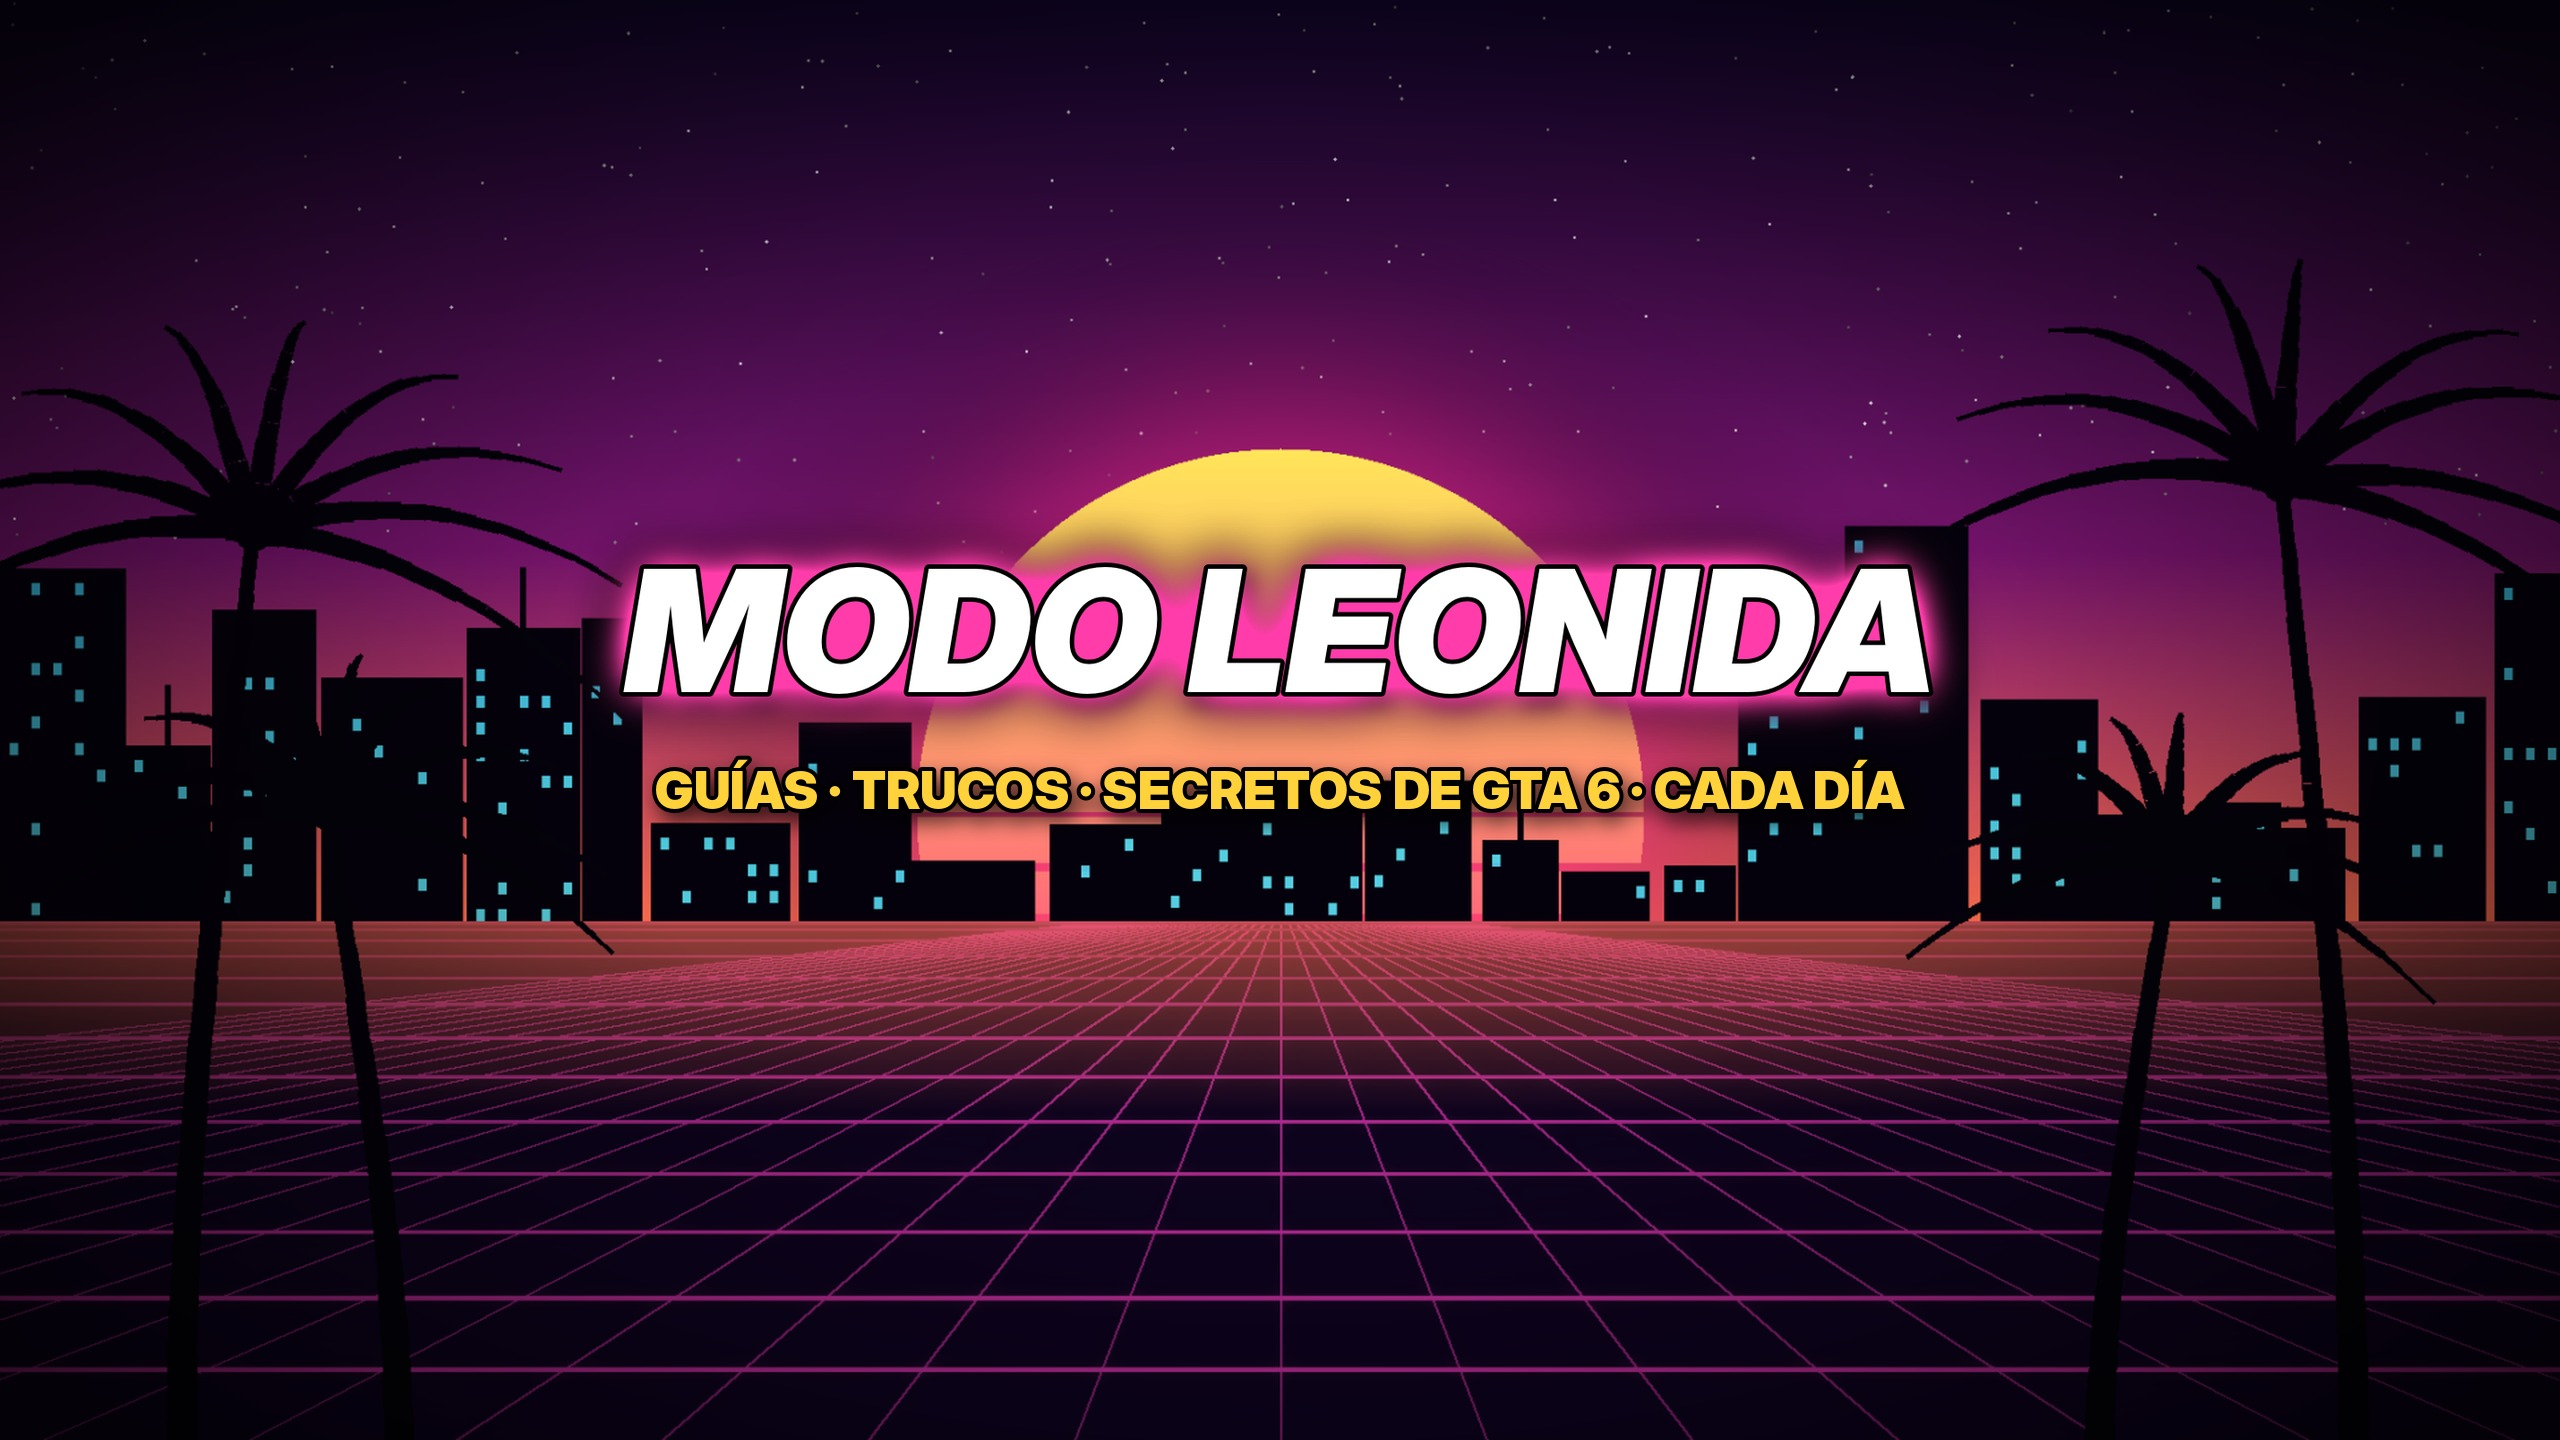
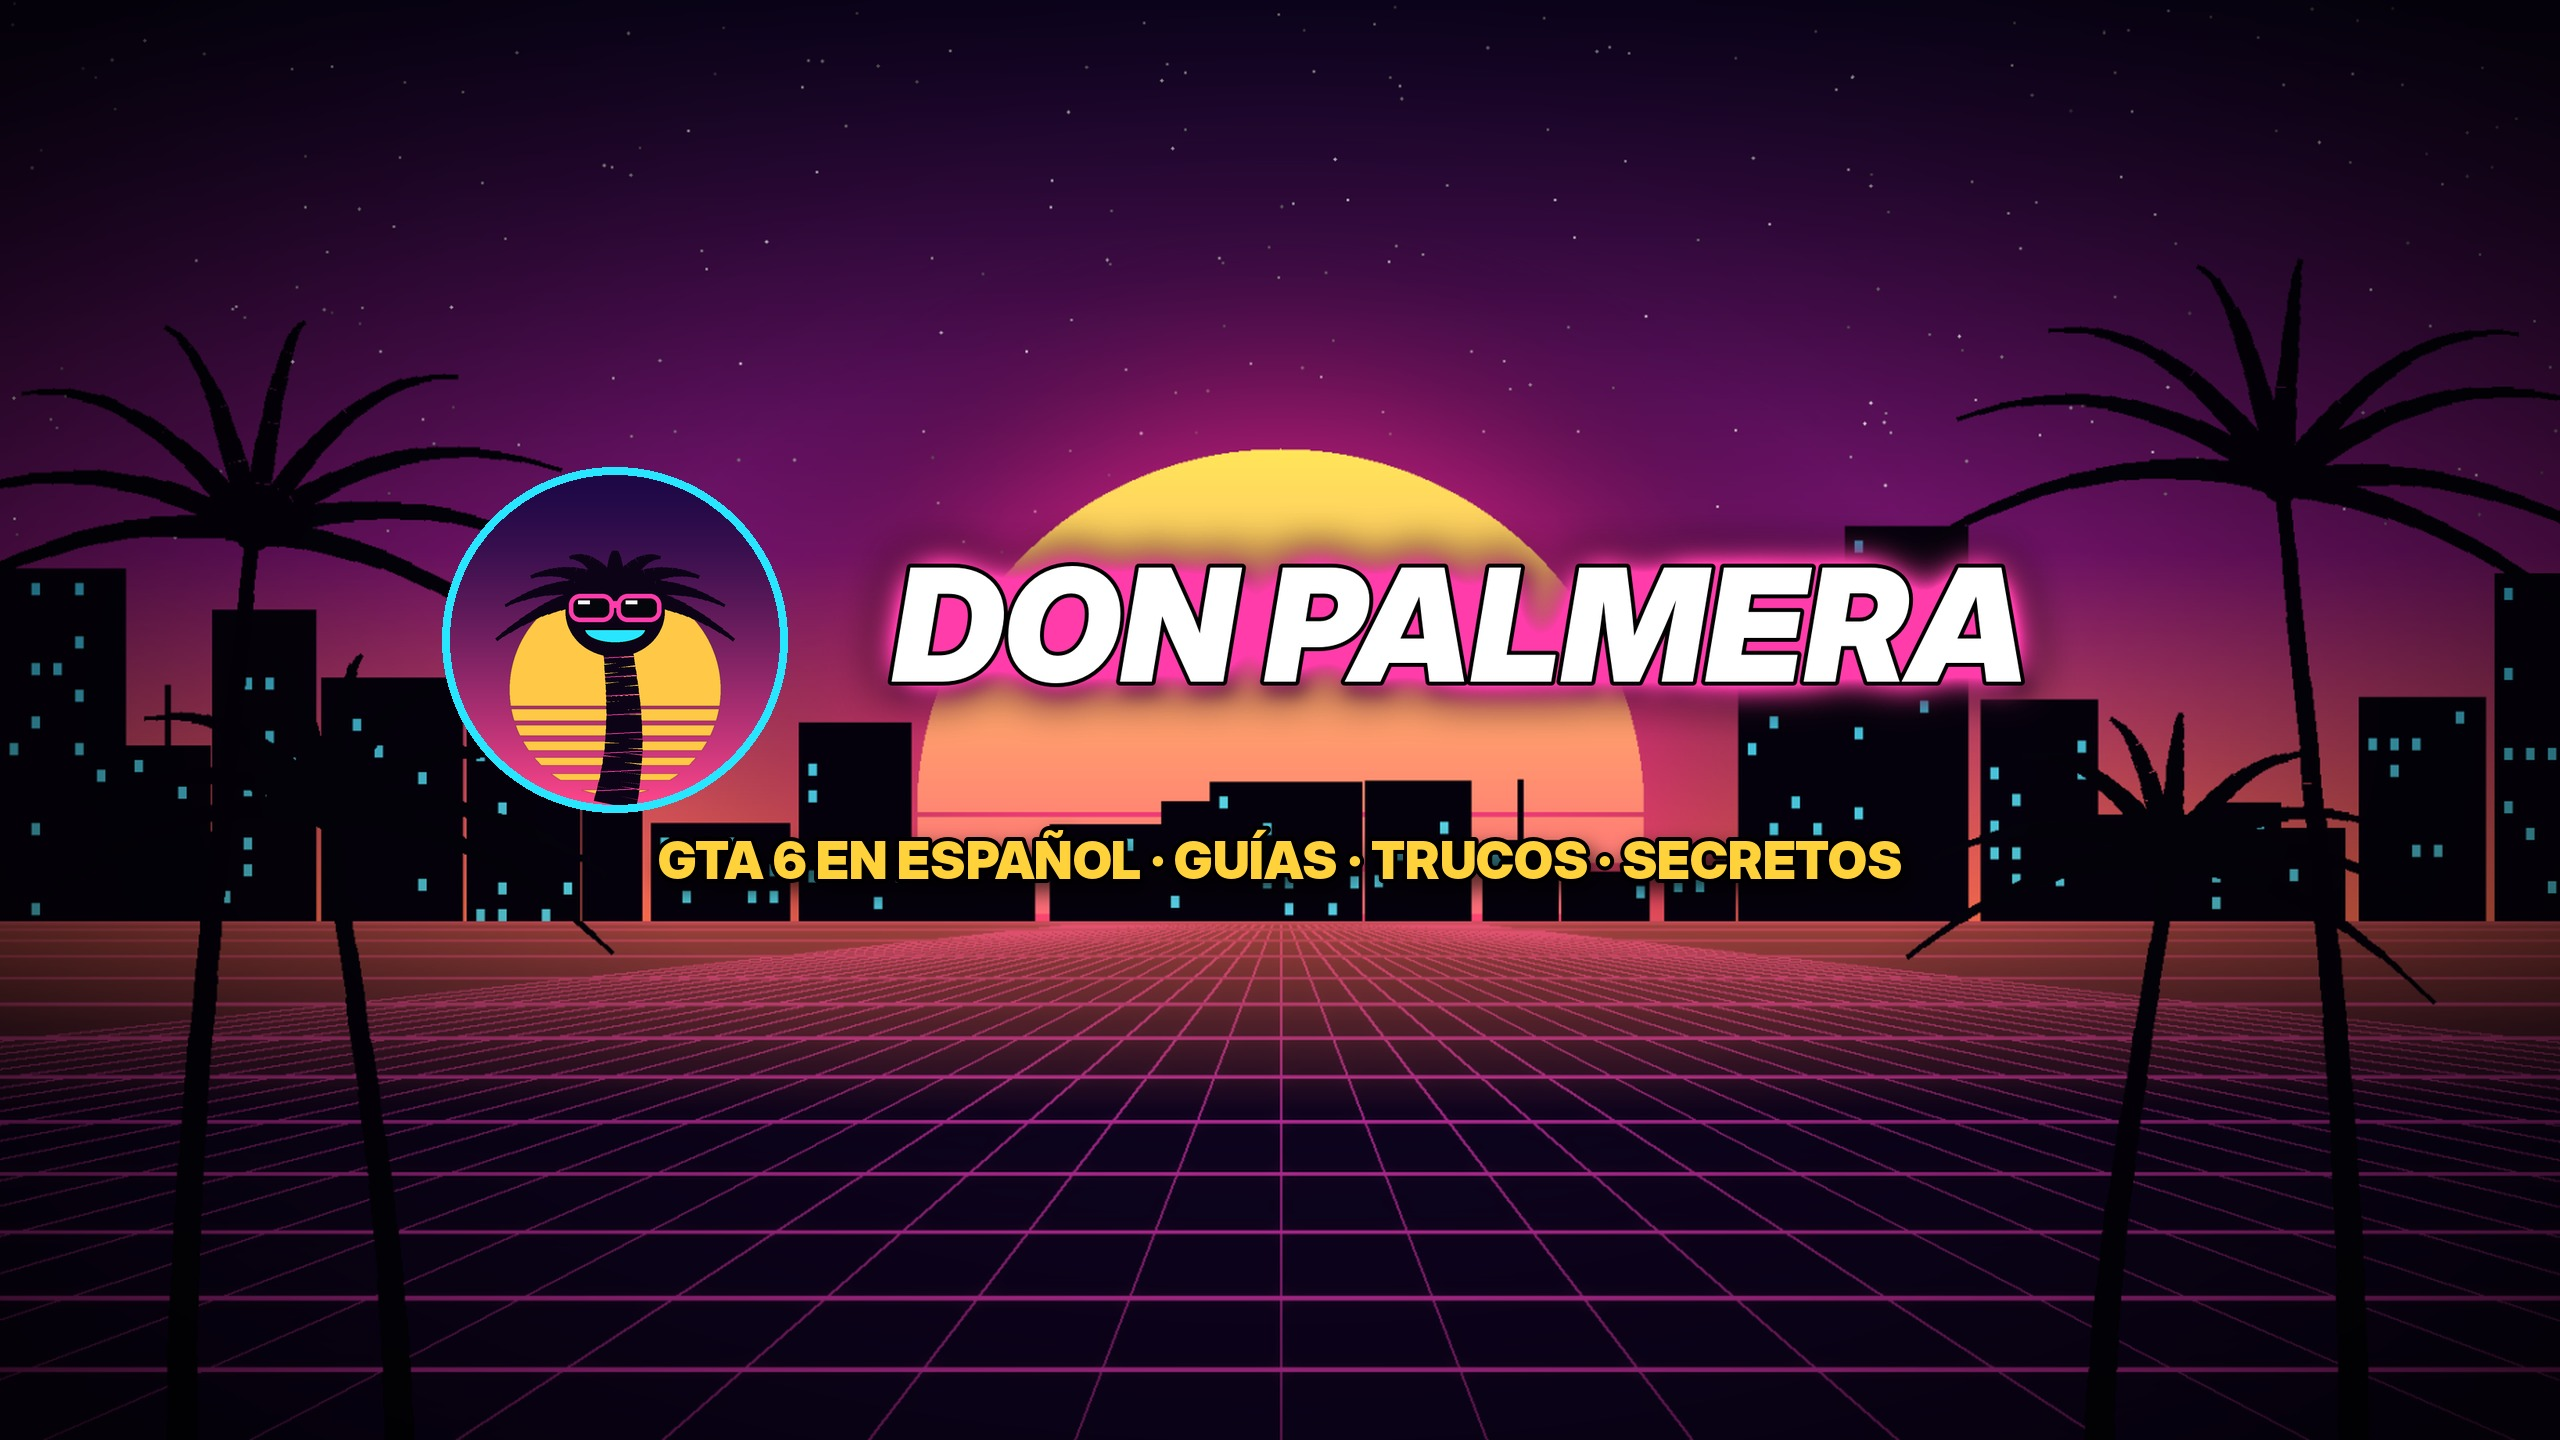
Cambio de marca a DON PALMERA: kit del canal y pipeline
Claude-Session: https://claude.ai/code/session_01UAdY6kd6m1RmKqG4SPs7Dz

Changed region(s): [[0.1562, 0.3125, 0.8125, 0.625]]

diff --git a/pipeline/build.py b/pipeline/build.py
@@ -102,28 +102,76 @@ def thumb(vi):
     print("thumb", out)
 
 # ------------------------------------------------------------------ canal
+def palmera_gafas(size, P):
+    """Mascota: Don Palmera, palmera con cabeza, gafas de sol y bigote."""
+    import math
+    S = 1000
+    im = Image.new("RGBA", (S, S), (20, 6, 48, 255))
+    # cielo degradado + sol
+    arr = np.zeros((S, S, 4), np.uint8); y = np.linspace(0, 1, S)[:, None]
+    top, bot = np.array((30, 8, 70)), np.array((255, 70, 140))
+    for k in range(3): arr[..., k] = (top[k] + (bot[k] - top[k]) * y ** 1.4).astype(np.uint8)
+    arr[..., 3] = 255
+    im = Image.fromarray(arr, "RGBA")
+    sun = Image.new("RGBA", (S, S), (0, 0, 0, 0)); sd = ImageDraw.Draw(sun)
+    sd.ellipse((180, 330, 820, 970), fill=(255, 200, 70, 255))
+    for k in range(6):
+        y0 = 700 + k * 45; sd.rectangle((0, y0, S, y0 + 8 + k * 4), fill=(0, 0, 0, 0))
+    im.alpha_composite(sun.filter(ImageFilter.GaussianBlur(1)))
+    d = ImageDraw.Draw(im)
+    dark = (12, 4, 22, 255)
+    # tronco grueso y curvo
+    pts = [(500 + 60 * math.sin(t * 2.2) * (1 - t), 1000 - 560 * t) for t in np.linspace(0, 1, 40)]
+    for i in range(len(pts) - 1):
+        d.line([pts[i], pts[i + 1]], fill=dark, width=int(130 - 50 * i / 39))
+    for i in range(3, 39, 4):  # anillos del tronco
+        x, yv = pts[i]; w = (130 - 50 * i / 39) / 2
+        d.line([(x - w, yv), (x + w, yv - 6)], fill=P["a1"] + (120,), width=4)
+    hx, hy = 500, 400
+    # hojas
+    for k in range(9):
+        ang = math.radians(-180 + k * 22.5)
+        L = 360
+        poly = []
+        for j in range(20):
+            t = j / 19
+            poly.append((hx + math.cos(ang) * L * t, hy - 40 + math.sin(ang) * L * t * 0.75 + 140 * t * t))
+        for j in range(len(poly) - 1):
+            d.line([poly[j], poly[j + 1]], fill=dark, width=int(70 - 62 * j / 19))
+    # cabeza
+    d.ellipse((hx - 150, hy - 120, hx + 150, hy + 150), fill=dark)
+    # gafas
+    for dx in (-72, 72):
+        d.rounded_rectangle((hx + dx - 68, hy - 40, hx + dx + 68, hy + 45), 34, fill=(5, 5, 12, 255), outline=P["a1"] + (255,), width=14)
+        d.line((hx + dx - 40, hy - 15, hx + dx - 5, hy - 15), fill=(255, 255, 255, 230), width=12)
+    d.rectangle((hx - 10, hy - 18, hx + 10, hy + 2), fill=P["a1"] + (255,))
+    # bigote
+    d.chord((hx - 95, hy + 20, hx + 95, hy + 110), 0, 180, fill=P["a2"] + (255,))
+    d.chord((hx - 95, hy + 20, hx + 95, hy + 110), 0, 180, outline=(0, 0, 0, 255), width=4)
+    return im.resize((size, size), Image.LANCZOS)
+
 def canal():
     d = os.path.join(ROOT, "canal"); os.makedirs(d, exist_ok=True)
     P = R.PALETTES["sunset"]
     bg = R.Background("sunset", 42)
-    # banner 2560x1440 (zona segura central 1546x423)
     im = bg.get(3, 1.0, dim=False).resize((2560, 1440), Image.LANCZOS)
-    t = R.text_img("MODO LEONIDA", R.F_BI, 190, fill=(255, 255, 255), glow=P["a1"], glow_r=30, stroke=5, stroke_fill=(0, 0, 0))
-    if t.width > 1500: t = t.resize((1500, int(t.height * 1500 / t.width)), Image.LANCZOS)
-    im.alpha_composite(t, (1280 - t.width // 2, 640 - t.height // 2 - 10))
-    s = R.text_img("GUÍAS · TRUCOS · SECRETOS DE GTA 6 · CADA DÍA", R.F_BLACK, 52, fill=R.MID, stroke=4, stroke_fill=(0, 0, 0))
-    im.alpha_composite(s, (1280 - s.width // 2, 790 - s.height // 2))
+    t = R.text_img("DON PALMERA", R.F_BI, 200, fill=(255, 255, 255), glow=P["a1"], glow_r=30, stroke=5, stroke_fill=(0, 0, 0))
+    if t.width > 1300: t = t.resize((1300, int(t.height * 1300 / t.width)), Image.LANCZOS)
+    m = palmera_gafas(330, P)
+    mask = Image.new("L", (330, 330), 0); ImageDraw.Draw(mask).ellipse((0, 0, 329, 329), fill=255)
+    tw = 330 + 30 + t.width; x0 = 1280 - tw // 2
+    ring = Image.new("RGBA", (346, 346), (0, 0, 0, 0)); ImageDraw.Draw(ring).ellipse((0, 0, 345, 345), fill=P["a2"] + (255,))
+    im.alpha_composite(ring, (x0 - 8, 640 - 173))
+    im.paste(m, (x0, 640 - 165), mask)
+    im.alpha_composite(t, (x0 + 360, 625 - t.height // 2))
+    s = R.text_img("GTA 6 EN ESPAÑOL · GUÍAS · TRUCOS · SECRETOS", R.F_BLACK, 52, fill=R.MID, stroke=4, stroke_fill=(0, 0, 0))
+    im.alpha_composite(s, (1280 - s.width // 2, 860 - s.height // 2))
     im.convert("RGB").save(os.path.join(d, "banner_2560x1440.jpg"), quality=92)
-    # avatar 800x800
-    av = bg.get(5, 1.6, dim=False).crop((560, 140, 1360, 940)).convert("RGBA")
-    dk = Image.new("RGBA", av.size, (0, 0, 0, 90)); av.alpha_composite(dk)
-    t = R.text_img("ML", R.F_BI, 400, fill=(255, 255, 255), glow=P["a1"], glow_r=30, stroke=8, stroke_fill=(0, 0, 0))
-    av.alpha_composite(t, (400 - t.width // 2, 400 - t.height // 2))
+    av = palmera_gafas(800, P)
     av.convert("RGB").save(os.path.join(d, "avatar_800x800.jpg"), quality=92)
-    # marca de agua 150x150
     wm = Image.new("RGBA", (150, 150), (0, 0, 0, 0)); wd = ImageDraw.Draw(wm)
     wd.ellipse((4, 4, 146, 146), fill=(230, 20, 30, 255), outline=(255, 255, 255, 255), width=5)
-    t = R.text_img("ML", R.F_BI, 70, fill=(255, 255, 255), shadow=False)
+    t = R.text_img("DP", R.F_BI, 70, fill=(255, 255, 255), shadow=False)
     wm.alpha_composite(t, (75 - t.width // 2, 72 - t.height // 2))
     wm.save(os.path.join(d, "marca_agua_150x150.png"))
     print("canal ok")

diff --git a/pipeline/metadatos.py b/pipeline/metadatos.py
@@ -124,7 +124,7 @@ Información verificada a 19 de noviembre de 2026. Si algo cambia, lo actualizo 
 📚 FUENTES
 {fuentes}
 
-🔔 Suscríbete a MODO LEONIDA: guías, trucos y secretos de GTA 6 cada día.
+🔔 Suscríbete a DON PALMERA: guías, trucos y secretos de GTA 6 cada día.
 
 Canal de fans no afiliado a Rockstar Games ni a Take-Two Interactive. Grand Theft Auto, GTA y sus logotipos son marcas de sus respectivos propietarios. Gráficos, mapa ilustrativo y música originales del canal. Voz sintética.
 

diff --git a/pipeline/render.py b/pipeline/render.py
@@ -6,7 +6,7 @@ from PIL import Image, ImageDraw, ImageFont, ImageFilter, ImageChops
 
 W, H, FPS = 1920, 1080, 30
 BW, BH = 2112, 1188  # fondo un 10% mayor para el zoom de cámara
-CANAL = "MODO LEONIDA"
+CANAL = "DON PALMERA"
 FD = "/usr/share/fonts/opentype/inter/"
 F_BLACK = FD + "InterDisplay-Black.otf"
 F_XB = FD + "InterDisplay-ExtraBold.otf"

diff --git a/pipeline/guiones.py b/pipeline/guiones.py
@@ -1,5 +1,5 @@
 # -*- coding: utf-8 -*-
-"""Guiones de los 10 vídeos del canal MODO LEONIDA.
+"""Guiones de los 10 vídeos del canal DON PALMERA.
 
 Cada escena: (tipo, datos_visuales, narración).
 La narración se escribe "como suena" para el sintetizador (p. ej. "Vais Siti"),
